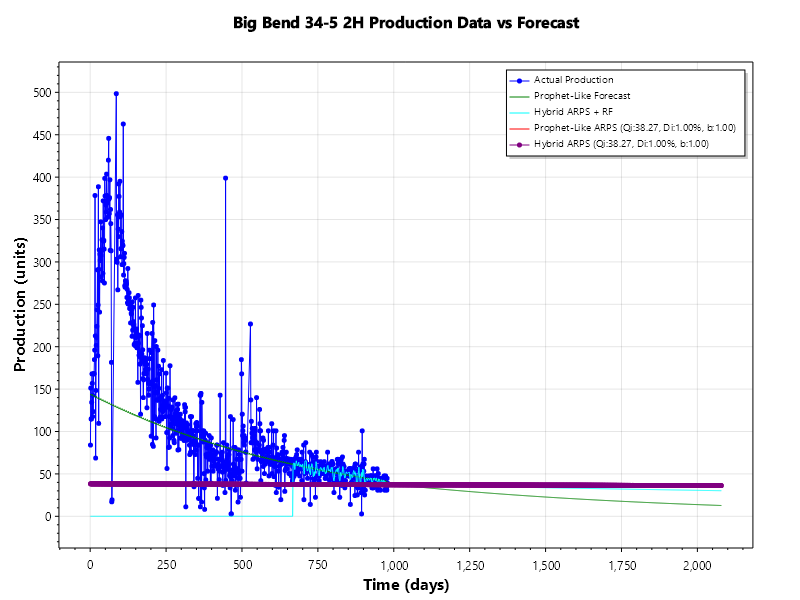
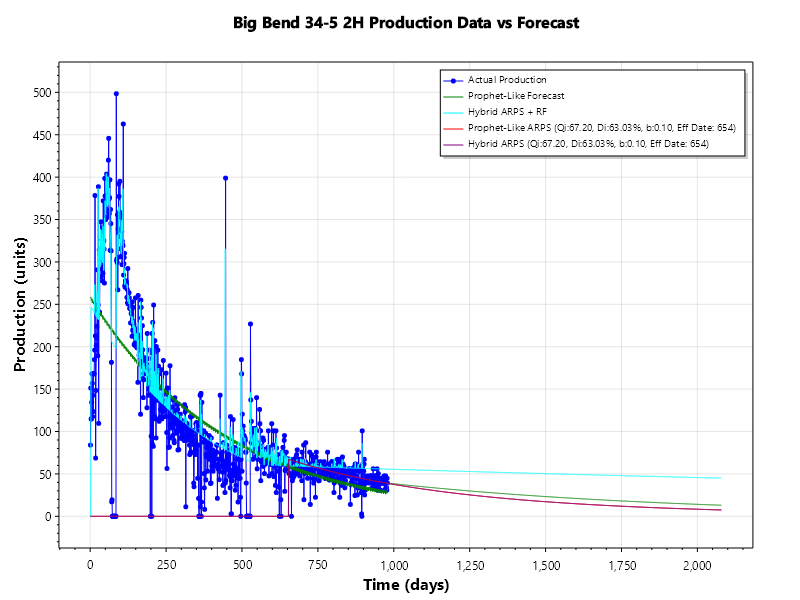
revisions for tighing Arps Equivalents to Models

Changed region(s): [[0.0938, 0.3, 0.9062, 0.87], [0.5312, 0.09, 0.9062, 0.27]]

diff --git a/WellChartGenerator.cs b/WellChartGenerator.cs
@@ -9,10 +9,8 @@ namespace ArpsForecasting
     public class WellChartGenerator
     {
         private readonly string wellName;
-        private readonly List<double> allTime; // Full historical data for plotting
+        private readonly List<double> allTime; // Full historical data for plotting and training
         private readonly List<double> allProduction;
-        private readonly List<double> forecastTime; // Subset for forecasting
-        private readonly List<double> forecastProduction; // Smoothed subset
         private readonly string outputDir;
         private readonly int effectiveOffset;
 
@@ -28,7 +26,7 @@ namespace ArpsForecasting
 
         private List<ArpsParams> arpsParameters = new List<ArpsParams>();
 
-        public WellChartGenerator(string wellName, List<double> time, List<double> production, string outputDir, int effectiveOffset = 0, double forecastFraction = 1.0 / 3.0)
+        public WellChartGenerator(string wellName, List<double> time, List<double> production, string outputDir, int effectiveOffset = 0)
         {
             this.wellName = wellName;
             this.allTime = time ?? throw new ArgumentNullException(nameof(time));
@@ -39,32 +37,6 @@ namespace ArpsForecasting
             // Validate input data
             if (time.Count != production.Count || time.Count == 0)
                 throw new ArgumentException("Time and production lists must have the same length and not be empty.");
-
-            // Subset for forecasting (e.g., last 1/3)
-            int pointsToUse = (int)(time.Count * forecastFraction);
-            if (pointsToUse < 1) pointsToUse = 1;
-            int startIndex = time.Count - pointsToUse;
-            this.forecastTime = time.Skip(startIndex).ToList();
-            this.forecastProduction = SmoothData(production.Skip(startIndex).ToList(), windowSize: 5); // Apply 5-point moving average
-            Console.WriteLine($"Using {forecastTime.Count} of {time.Count} points for forecasting (last {forecastFraction:P0}) with smoothing");
-        }
-
-        // Simple moving average smoothing with safeguard
-        private List<double> SmoothData(List<double> data, int windowSize)
-        {
-            var smoothed = new List<double>();
-            for (int i = 0; i < data.Count; i++)
-            {
-                int start = Math.Max(0, i - windowSize / 2);
-                int end = Math.Min(data.Count - 1, i + windowSize / 2);
-                double sum = 0;
-                for (int j = start; j <= end; j++)
-                    sum += data[j];
-                double smoothedValue = sum / (end - start + 1);
-                smoothed.Add(Math.Max(smoothedValue, 0.1)); // Ensure no values below 0.1
-            }
-            Console.WriteLine($"Smoothed data for {wellName}: Min={smoothed.Min():F2}, Max={smoothed.Max():F2}");
-            return smoothed;
         }
 
         public void GenerateAndSaveChart()
@@ -77,9 +49,13 @@ namespace ArpsForecasting
 
             Console.WriteLine($"\nProcessing well: {wellName}");
 
-            // Define historical and forecast periods
-            double historicalEndTime = forecastTime.Max(); // End of the subset used for forecasting
-            Console.WriteLine($"Historical end time for {wellName}: {historicalEndTime}");
+            // Define effective date for ARPS equivalents (last 1/3 of data)
+            int pointsToUse = (int)(allTime.Count * 1.0 / 3.0);
+            int startIndex = allTime.Count - pointsToUse;
+            double effectiveDate = allTime[startIndex] + effectiveOffset;
+            if (effectiveDate < allTime.Min()) effectiveDate = allTime.Min();
+            Console.WriteLine($"Effective date for ARPS equivalents for {wellName}: {effectiveDate}");
+
             var plotTime = Enumerable.Range((int)allTime.Min(), (int)allTime.Max() - (int)allTime.Min() + 1100 + 1).Select(t => (double)t).ToList();
 
             var plt = new Plot();
@@ -88,24 +64,24 @@ namespace ArpsForecasting
             actualScatter.Label = "Actual Production";
             Console.WriteLine($"Plotted historical data for {wellName}");
 
-            // Prophet-Like Forecast (trained on smoothed subset)
+            // Prophet-Like Forecast (trained on full dataset)
             var prophetStopwatch = Stopwatch.StartNew();
-            var prophetForecaster = new ProphetLikeForecaster(forecastTime, forecastProduction);
-            Console.WriteLine($"Created ProphetLikeForecaster for {wellName}");
-            var prophetForecast = prophetForecaster.Forecast(plotTime, forecastTime, forecastProduction);
+            var prophetForecaster = new ProphetLikeForecaster(allTime, allProduction); // Use full dataset
+            Console.WriteLine($"Created ProphetLikeForecaster for {wellName} with full dataset");
+            var prophetForecast = prophetForecaster.Forecast(plotTime, allTime, allProduction);
             prophetStopwatch.Stop();
             Console.WriteLine($"Prophet-Like Forecast Time for {wellName}: {prophetStopwatch.ElapsedMilliseconds} ms");
-            Console.WriteLine($"Prophet forecast at historicalEndTime {historicalEndTime}: {prophetForecast[plotTime.IndexOf(historicalEndTime)]:F2}");
+            Console.WriteLine($"Prophet forecast at effectiveDate {effectiveDate}: {prophetForecast[plotTime.IndexOf(effectiveDate)]:F2}");
 
-            // Hybrid Arps + Random Forest (trained on smoothed subset)
+            // Hybrid Arps + Random Forest (trained on full dataset)
             var hybridStopwatch = Stopwatch.StartNew();
             var config = new ForecastConfig();
             Console.WriteLine($"Created ForecastConfig for {wellName}: {config}");
             HybridForecaster hybridForecaster = null;
             try
             {
-                hybridForecaster = new HybridForecaster(forecastTime, forecastProduction, config);
-                Console.WriteLine($"Created HybridForecaster for {wellName} with config: {config}");
+                hybridForecaster = new HybridForecaster(allTime, allProduction, config); // Use full dataset
+                Console.WriteLine($"Created HybridForecaster for {wellName} with full dataset and config: {config}");
             }
             catch (Exception ex)
             {
@@ -114,10 +90,10 @@ namespace ArpsForecasting
                 throw;
             }
 
-            var hybridForecast = new List<float>(); // Declare outside try-catch
+            var hybridForecast = new List<float>();
             try
             {
-                hybridForecast = hybridForecaster.Forecast(plotTime, forecastTime, forecastProduction);
+                hybridForecast = hybridForecaster.Forecast(plotTime, allTime, allProduction);
                 Console.WriteLine($"Hybrid forecast completed successfully");
             }
             catch (Exception ex)
@@ -128,7 +104,7 @@ namespace ArpsForecasting
             }
             hybridStopwatch.Stop();
             Console.WriteLine($"Hybrid Arps + Random Forest Forecast Time for {wellName}: {hybridStopwatch.ElapsedMilliseconds} ms");
-            Console.WriteLine($"Hybrid forecast at historicalEndTime {historicalEndTime}: {hybridForecast[plotTime.IndexOf(historicalEndTime)]:F2}");
+            Console.WriteLine($"Hybrid forecast at effectiveDate {effectiveDate}: {hybridForecast[plotTime.IndexOf(effectiveDate)]:F2}");
 
             // Prepare hybrid forecast for plotting
             var hybridForecastForPlot = new List<float>();
@@ -142,34 +118,36 @@ namespace ArpsForecasting
             }
             Console.WriteLine($"Prepared hybrid forecast for plotting for {wellName}");
 
-            // Define effective date for ARPS equivalents
-            double effectiveDate = historicalEndTime + effectiveOffset;
-            if (effectiveDate < forecastTime.Min()) effectiveDate = forecastTime.Min();
-            Console.WriteLine($"Effective date for {wellName}: {effectiveDate}");
+            // Prepare data for ARPS equivalents (subset of historical data starting from effectiveDate)
+            var arpsFitTimes = allTime.Where(t => t >= effectiveDate).ToList();
+            var arpsFitData = allProduction.Where((p, i) => allTime[i] >= effectiveDate).ToList();
 
-            // Use actual production at effectiveDate as initial Qi
-            int effectiveIndex = forecastTime.IndexOf(forecastTime.LastOrDefault(t => t <= effectiveDate));
-            Console.WriteLine($"Effective index for {wellName}: {effectiveIndex}, forecastTime count: {forecastTime.Count}");
-            double initialQi = effectiveIndex >= 0 && effectiveIndex < forecastProduction.Count ? forecastProduction[effectiveIndex] : forecastProduction.Last();
-            Console.WriteLine($"Initial Qi for {wellName} at effectiveDate {effectiveDate}: {initialQi}");
-            if (initialQi < 0.1)
+            // Use historical production at effectiveDate as initial Qi
+            int arpsEffectiveIndex = allTime.IndexOf(allTime.Last(t => t <= effectiveDate));
+            double prophetInitialQi = arpsEffectiveIndex >= 0 && arpsEffectiveIndex < allProduction.Count ? allProduction[arpsEffectiveIndex] : allProduction.Last();
+            double hybridInitialQi = arpsEffectiveIndex >= 0 && arpsEffectiveIndex < allProduction.Count ? allProduction[arpsEffectiveIndex] : allProduction.Last();
+            if (prophetInitialQi < 0.1)
             {
-                Console.WriteLine($"Warning: Initial Qi ({initialQi}) is below 0.1. Adjusting to 0.1.");
-                initialQi = 0.1;
+                Console.WriteLine($"Warning: Prophet Initial Qi ({prophetInitialQi}) is below 0.1. Adjusting to 0.1.");
+                prophetInitialQi = 0.1;
             }
+            if (hybridInitialQi < 0.1)
+            {
+                Console.WriteLine($"Warning: Hybrid Initial Qi ({hybridInitialQi}) is below 0.1. Adjusting to 0.1.");
+                hybridInitialQi = 0.1;
+            }
+            Console.WriteLine($"Prophet Initial Qi for ARPS at effectiveDate {effectiveDate}: {prophetInitialQi}");
+            Console.WriteLine($"Hybrid Initial Qi for ARPS at effectiveDate {effectiveDate}: {hybridInitialQi}");
 
+            // Fit ARPS for Prophet-Like forecast starting from effectiveDate
             var prophetArpsForecaster = new SSE();
-            prophetArpsForecaster.SetQi(initialQi);
-            Console.WriteLine($"Set initial Qi for Prophet ArpsForecaster: {initialQi}");
-            var hybridArpsForecaster = new SSE();
-            hybridArpsForecaster.SetQi(initialQi);
-            Console.WriteLine($"Set initial Qi for Hybrid ArpsForecaster: {initialQi}");
-
-            // Fit ARPS for Prophet-Like with adjusted initial guesses
-            double initialDi = 0.20 / 365.0; // 20% annual
-            Console.WriteLine($"Calling FitHyperbolic for Prophet-Like with qiGuess={initialQi}, diGuess={initialDi}");
-            prophetArpsForecaster.FitHyperbolic(forecastTime, forecastProduction, initialQi, initialDi, null);
-            var prophetArpsForecast = plotTime.Select(t => (float)prophetArpsForecaster.Forecast(t, effectiveDate)).ToList();
+            prophetArpsForecaster.SetQi(prophetInitialQi);
+            prophetArpsForecaster.SetReferenceTime(effectiveDate);
+            Console.WriteLine($"Set initial Qi for Prophet ArpsForecaster: {prophetInitialQi}");
+            double initialDi = 0.20 / 365.0; // 20% annual for more reasonable decline
+            Console.WriteLine($"Calling FitHyperbolic for Prophet-Like ARPS with qiGuess={prophetInitialQi}, diGuess={initialDi}");
+            prophetArpsForecaster.FitHyperbolic(arpsFitTimes, arpsFitData, prophetInitialQi, initialDi, null);
+            var prophetArpsForecast = plotTime.Select(t => (float)(t < effectiveDate ? 0 : prophetArpsForecaster.Forecast(t, effectiveDate))).ToList();
 
             arpsParameters.Add(new ArpsParams
             {
@@ -181,10 +159,14 @@ namespace ArpsForecasting
                 B = prophetArpsForecaster.B
             });
 
-            // Fit ARPS for Hybrid with adjusted initial guesses
-            Console.WriteLine($"Calling FitHyperbolic for Hybrid with qiGuess={initialQi}, diGuess={initialDi}");
-            hybridArpsForecaster.FitHyperbolic(forecastTime, forecastProduction, initialQi, initialDi, null);
-            var hybridArpsForecast = plotTime.Select(t => (float)hybridArpsForecaster.Forecast(t, effectiveDate)).ToList();
+            // Fit ARPS for Hybrid forecast starting from effectiveDate
+            var hybridArpsForecaster = new SSE();
+            hybridArpsForecaster.SetQi(hybridInitialQi);
+            hybridArpsForecaster.SetReferenceTime(effectiveDate);
+            Console.WriteLine($"Set initial Qi for Hybrid ArpsForecaster: {hybridInitialQi}");
+            Console.WriteLine($"Calling FitHyperbolic for Hybrid ARPS with qiGuess={hybridInitialQi}, diGuess={initialDi}");
+            hybridArpsForecaster.FitHyperbolic(arpsFitTimes, arpsFitData, hybridInitialQi, initialDi, null);
+            var hybridArpsForecast = plotTime.Select(t => (float)(t < effectiveDate ? 0 : hybridArpsForecaster.Forecast(t, effectiveDate))).ToList();
 
             arpsParameters.Add(new ArpsParams
             {
@@ -206,12 +188,12 @@ namespace ArpsForecasting
             hybridLine.MarkerSize = 0;
 
             var prophetArpsLine = plt.Add.Scatter(plotTime.ToArray(), prophetArpsForecast.ToArray(), color: Colors.Red);
-            prophetArpsLine.Label = $"Prophet-Like ARPS (Qi:{prophetArpsForecaster.Qi:F2}, Di:{prophetArpsForecaster.Di * 365 * 100:F2}%, b:{prophetArpsForecaster.B:F2})";
+            prophetArpsLine.Label = $"Prophet-Like ARPS (Qi:{prophetArpsForecaster.Qi:F2}, Di:{prophetArpsForecaster.Di * 365 * 100:F2}%, b:{prophetArpsForecaster.B:F2}, Eff Date: {effectiveDate})";
             prophetArpsLine.MarkerSize = 0;
 
             var hybridArpsLine = plt.Add.Scatter(plotTime.ToArray(), hybridArpsForecast.ToArray(), color: Colors.Purple);
-            hybridArpsLine.Label = $"Hybrid ARPS (Qi:{hybridArpsForecaster.Qi:F2}, Di:{hybridArpsForecaster.Di * 365 * 100:F2}%, b:{hybridArpsForecaster.B:F2})";
-            hybridLine.MarkerSize = 0;
+            hybridArpsLine.Label = $"Hybrid ARPS (Qi:{hybridArpsForecaster.Qi:F2}, Di:{hybridArpsForecaster.Di * 365 * 100:F2}%, b:{hybridArpsForecaster.B:F2}, Eff Date: {effectiveDate})";
+            hybridArpsLine.MarkerSize = 0;
 
             plt.Title($"{wellName} Production Data vs Forecast");
             plt.XLabel("Time (days)");

diff --git a/Program.cs b/Program.cs
@@ -9,99 +9,90 @@ namespace ArpsForecasting
     {
         static void Main(string[] args)
         {
+            // Define paths
+            string csvPath = @"C:\Dev\ArpsForecasting\production_data.csv";
+            string outputDir = @"C:\Dev\ArpsForecasting\Charts";
+
+            // Create output directory if it doesn't exist
+            if (!Directory.Exists(outputDir))
+                Directory.CreateDirectory(outputDir);
+            Console.WriteLine($"Cleared existing files in '{outputDir}'");
+
+            // Load well data from CSV
+            var wells = LoadWellData(csvPath);
+            if (!wells.Any())
+            {
+                Console.WriteLine("No well data found in CSV file. Exiting.");
+                return;
+            }
+            Console.WriteLine($"Loaded wells: {string.Join(", ", wells.Select(w => w.name))}");
+
+            int effectiveOffset = 0;
+            var arpsParameters = new List<WellChartGenerator.ArpsParams>();
+
+            // Process each well
+            foreach (var well in wells)
+            {
+                var generator = new WellChartGenerator(well.name, well.time, well.production, outputDir, effectiveOffset); // Removed forecastFraction
+                generator.GenerateAndSaveChart();
+                arpsParameters.AddRange(generator.GetArpsParameters());
+            }
+
+            // Save arpsParameters to CSV
+            string arpsPath = Path.Combine(Path.GetDirectoryName(outputDir), "arps_parameters.csv");
+            using (var writer = new StreamWriter(arpsPath))
+            {
+                writer.WriteLine("WellName,ModelType,EffectiveDate,Qi,Di,B");
+                foreach (var param in arpsParameters)
+                {
+                    writer.WriteLine($"{param.WellName},{param.ModelType},{param.EffectiveDate},{param.Qi},{param.Di},{param.B}");
+                }
+            }
+            Console.WriteLine($"ARPS parameters saved to '{arpsPath}'");
+        }
+
+        // Method to load well data from CSV
+        static List<(string name, List<double> time, List<double> production)> LoadWellData(string csvPath)
+        {
+            var wellsData = new Dictionary<string, (List<double> time, List<double> production)>();
+
             try
             {
-                string csvPath = Path.Combine(Directory.GetCurrentDirectory(), "production_data.csv");
-                var wellsData = LoadDataFromCsv(csvPath);
-
-                if (!wellsData.Any())
-                    throw new InvalidOperationException("No valid well data loaded from CSV.");
-
-                // Clear the Charts folder
-                string chartsDir = Path.Combine(Directory.GetCurrentDirectory(), "Charts");
-                if (Directory.Exists(chartsDir))
+                using (var reader = new StreamReader(csvPath))
                 {
-                    foreach (var file in Directory.GetFiles(chartsDir))
+                    // Skip header
+                    reader.ReadLine();
+
+                    // Read each line
+                    while (!reader.EndOfStream)
                     {
-                        File.Delete(file);
-                    }
-                    Console.WriteLine($"Cleared existing files in '{chartsDir}'");
-                }
-                else
-                {
-                    Directory.CreateDirectory(chartsDir);
-                    Console.WriteLine($"Created new Charts directory at '{chartsDir}'");
-                }
+                        var line = reader.ReadLine();
+                        var values = line.Split(',');
 
-                // Delete existing arps_parameters.csv if it exists
-                string outputCsvPath = Path.Combine(Directory.GetCurrentDirectory(), "arps_parameters.csv");
-                if (File.Exists(outputCsvPath))
-                {
-                    File.Delete(outputCsvPath);
-                    Console.WriteLine($"Deleted existing 'arps_parameters.csv'");
-                }
+                        if (values.Length < 3) continue; // Skip malformed lines
 
-                // List to collect all ARPS parameters
-                var allArpsParams = new List<WellChartGenerator.ArpsParams>();
+                        string wellName = values[0].Trim();
+                        if (!double.TryParse(values[1], out double time)) continue;
+                        if (!double.TryParse(values[2], out double production)) continue;
 
-                // Process each well using WellChartGenerator
-                foreach (var well in wellsData)
-                {
-                    var chartGenerator = new WellChartGenerator(well.Key, well.Value.time, well.Value.production, chartsDir, 0, 1.0 / 3.0); // Last 1/3 for forecasting
-                    chartGenerator.GenerateAndSaveChart();
-                    allArpsParams.AddRange(chartGenerator.GetArpsParameters());
-                }
+                        if (!wellsData.ContainsKey(wellName))
+                        {
+                            wellsData[wellName] = (new List<double>(), new List<double>());
+                        }
 
-                // Write ARPS parameters to a single CSV file
-                using (var writer = new StreamWriter(outputCsvPath, append: false))
-                {
-                    writer.WriteLine("WellName,ModelType,EffectiveDate,Qi,Di,B");
-                    foreach (var param in allArpsParams)
-                    {
-                        double diPercent = param.Di * 365 * 100;
-                        writer.WriteLine($"{param.WellName},{param.ModelType},{param.EffectiveDate:F0},{param.Qi:F2},{diPercent:F2}%,{param.B:F2}");
+                        wellsData[wellName].time.Add(time);
+                        wellsData[wellName].production.Add(production);
                     }
                 }
-                Console.WriteLine($"ARPS parameters saved to '{outputCsvPath}'");
             }
             catch (Exception ex)
             {
-                Console.WriteLine($"Error: {ex.Message}");
-            }
-        }
-
-        static Dictionary<string, (List<double> time, List<double> production)> LoadDataFromCsv(string filePath)
-        {
-            if (!File.Exists(filePath))
-                throw new FileNotFoundException($"CSV file not found at: {filePath}");
-
-            var wellsData = new Dictionary<string, (List<double> time, List<double> production)>();
-            var lines = File.ReadAllLines(filePath);
-
-            if (lines.Length <= 1)
-                throw new InvalidDataException("CSV file is empty or has only a header.");
-
-            foreach (var line in lines.Skip(1))
-            {
-                var columns = line.Split(',').Select(c => c.Trim()).ToArray();
-                if (columns.Length < 3) continue;
-                var relevantColumns = new[] { columns[0], columns[1], columns[2] };
-
-                if (!double.TryParse(relevantColumns[1], out double t) || !double.TryParse(relevantColumns[2], out double p) || p <= 0)
-                {
-                    continue;
-                }
-
-                string wellName = relevantColumns[0];
-                if (!wellsData.ContainsKey(wellName))
-                    wellsData[wellName] = (new List<double>(), new List<double>());
-
-                wellsData[wellName].time.Add(t);
-                wellsData[wellName].production.Add(p);
+                Console.WriteLine($"Error reading CSV file: {ex.Message}");
+                return new List<(string, List<double>, List<double>)>();
             }
 
-            Console.WriteLine($"Loaded wells: {string.Join(", ", wellsData.Keys)}");
-            return wellsData;
+            // Convert dictionary to list of tuples
+            return wellsData.Select(kv => (kv.Key, kv.Value.time, kv.Value.production)).ToList();
         }
     }
 }
